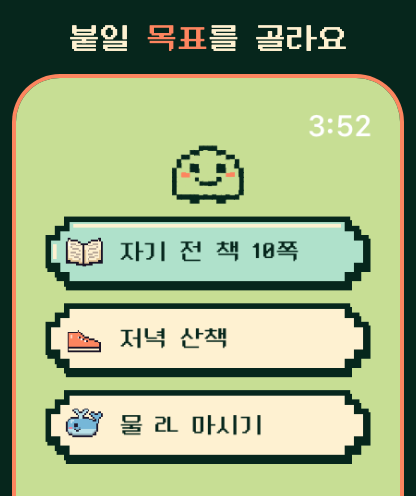
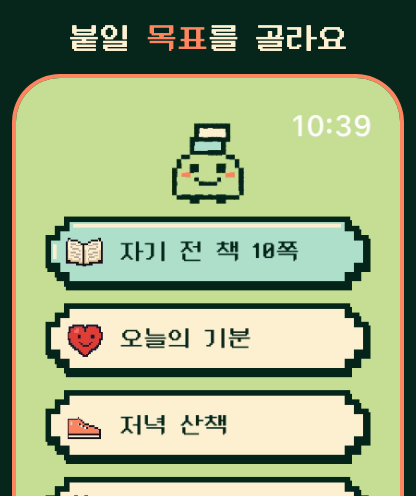
docs(store): reshoot the Korean 1.1.0 watch screenshots
The Korean watch set was still the 1.0.0 capture (three goals, no
"today's mood", old character). Recaptured the same four scenes as the
English set on the 1.1.0 Release build with a fresh iPhone 17 Pro Max
and Apple Watch Series 11 simulator pair set to Korean, with the app
clock moved to Oct 28 and the same seed plus the 11th book sticker.
The watch status bar cannot be overridden on the simulator, so the
clock area is copied from the English raws to read 10:39 (10:34 on 02).

gen8.mjs now renders final-1.1.0/watch and the 07 watch card from
raw8/watch/; 07 is added to changed/.

diff --git a/docs/design/proposals-2026-10/README.md b/docs/design/proposals-2026-10/README.md
@@ -9,7 +9,7 @@
 | --- | --- | --- | --- |
 | 스티커 품질 점검 | https://claude.ai/artifact/NWuVMD9zg1GxyHaLgHjHcq | `sticker-quality.template.html` | 2026-10-07 발행. 「컬러로 모두 바꾸는 대신 품질부터, 처음 기획한 도트 느낌이 사라졌다」(사용자) → 66종을 처음 도트 규칙(PixelLab 하트 기준)에 비춰 판정: 그대로 37 · 손보기 19 · 다시 그리기 10. 잘 된 쪽은 Codex 변환 동물·감정·사물, 약한 쪽은 생성기로 그린 기본·운동·간식·날씨 일부(윤곽만 있는 선 그림, 1칸 선, 떠 있는 점, 흰 몸, 여백 없음). 자동 검사(떠 있는 칸·여백·밝은 면·얇은 선·잉크 윤곽). 다듬는 방법 M1 잘 된 경로로 통일(추천) · M2 제가 전부 · M3 출시분만. db `choice-method`·`note-<묶음|m1~m3>`. **2026-10-07 사용자: 스티커 품질은 결정하지 않은 채 우선순위를 낮추고 화면 설계부터 마무리.** 템플릿 자리 `__FONT__`·`__DATA__`(`{stickers, verdicts, lint}`) |
 | 친구와 함께 쓰기 | https://claude.ai/artifact/QYT5fQYk2xeDnBgV63Yckb | `friends-ideas.template.html` | 2026-10-17 발행. 당시에는 출시 뒤 검토 기능이었고, 뒤에 「함께 목표」(아래 줄, PRD 4.15)로 확정됐다. 「셋로그처럼 친구와 같이 쓰려면」(사용자) → 아이디어 7개(친구 방, 함께 채우는 판, 같이 시작하기, 우리 판 돌아보기, 완성한 판 엽서, 응원 스티커, 위젯에 친구 소식)를 화면 그림으로(실제 컴포넌트 캡처 아님) + 넣지 않을 것 + 방향 A 보내기만(추천), B 작은 친구 방, C 함께 채우는 판. 기획 정리는 [`../../superpowers/specs/2026-10-17-friends-ideas.md`](../../superpowers/specs/2026-10-17-friends-ideas.md). 바로 열어 보기: `friends-ideas.html`(브라우저로 열기, 고른 것은 그 브라우저에만 저장) 또는 캡처 `friends-ideas.png`. 템플릿은 빈 자리(`__FONT__`, `/*__ART__*/`)가 있어 그대로 열면 그림이 안 나온다. 템플릿을 고쳤으면 `node docs/design/proposals-2026-10/friends-ideas.gen.mjs [출력 폴더]`로 미리보기를 다시 만들고, 출력 폴더를 주면 폰트까지 넣은 발행용도 만든다. db `review/choice-fr-<1~7|dir>`(yes, later, no / a, b, c), `review/note-fr-<1~7|dir|all>` |
-| 스토어 스크린샷 | https://claude.ai/artifact/EwfZj1XX7r2fP4ppBPV7ks, 1.1.0: https://claude.ai/artifact/2pC3w4BaFRXU5ogG4Cfapi | `store-shots/` | **1.1.0 세트(2026-11-05 사용자 확정):** `final-1.1.0/6.9`, `6.3`(01~10), `watch`(1.0.0 그대로). 1.1.0 Release 빌드로 같은 예시 데이터와 날짜(10월 28일 9:41)로 다시 찍어 비교했다. 교체 01 붙이기, 05 기분, 06 달력(진행 막대와 차곡이), 08 꾸미기(새 기본 묶음, 「무료」 배지 없음). 그대로 02, 03, 04, 07. 새 장 09 한 판, 10 각자 판(함께 목표, 맨 뒤에 둠 A안, 10은 친구 둘로 다시 찍음 C안). 예비 장(초대) `final-1.1.0/extra`. 바뀐 장과 새 장만 `changed/`. 새 원본 `raw8/`(바뀐 장만, 나머지는 `raw6/`. 02 목표 목록은 2026-11-06에 01 붙이기 뒤 상태(책 73%)로 `raw8/home.png`를 다시 찍어 01, 07과 맞췄다. 07 위젯의 기분 달력은 날마다 목표 기본 스티커(빨간 하트)를 그리는 것이 앱 동작이라 그대로), 예시 데이터 `seed8.mjs`(1.1.0 기기 DB 구조), 다시 만들기 `node gen8.mjs` → `final-1.1.0/`, `changed/`, `out8/sheet8.png`(커밋 안 함). db `review/choice-store-order`(A), `review/choice-store-empty`(C). **1.0.0 제출본: 7판 B안 확정(2026-10-29, 사용자 선택, 메모 없음).** 확정본은 `store-shots/final/`: `6.9/01~08.png`(1320×2868), `6.3/01~08.png`(1206×2622, 꼭 내야 하는 크기), `watch/01~04.png`(416×496). 순서는 붙이기, 여러 목표, 기록, 다시 보기, 기분, 달력, 위젯과 워치, 꾸미기. 08(꾸미기)은 묶음 카드의 「무료」 배지 3곳을 카드 바탕색으로 가렸다(2026-10-29 App Store 점검, 지침 2.3.7, `gen7.mjs`의 `masks`). B 크게 잘라 보기(먹색 바탕, 휴대폰 테두리 없이 화면 일부를 크게, 무료 스티커 장식). 함께 보인 안: A 출시 영상 결(민트, 아이보리, 연두 교차와 단계 배지), C 이어지는 파노라마(살구 바탕). Watch는 6판에서 고른 B안(먹색, 위쪽 문구)의 화면을 키운 4장, 보관함 구경 장은 뺐다. 캡처 원본은 `raw6/`(iPhone), `watch6/`(Watch), 예시 데이터는 `seed.mjs`. 다시 만들려면 `node gen7.mjs [a|b|c]` → `out7/`(커밋 안 함)에 낱장, 시트, 리뷰 HTML. db `review/choice-shots7`(a, b, c), `review/note-shots7-<a|b|c|watch|ads|shop|photo|video|copy|all>`. 이전 판: 2026-10-26 2판(1판 「밋밋하다, 메모와 사진 화면이 없다」 → 스티커가 튀어나오는 구성 `gen2.mjs`, 기록 화면과 사진 모아보기 추가, 사진은 Storybook 도트 예시 사진, A 기울인 한 대 추천, B 두 화면 겹치기, C 크게 흘려 보내기). 1판: Release 빌드를 시뮬레이터(iPhone 17 Pro Max iOS 26.5, Watch Series 11 46mm)에서 찍고 문구를 얹음. 예시 데이터 `seed.mjs`(앱 DB에 넣음, 무료 묶음만, 광고 제거 켬), 구성 `gen.mjs`(`slides.json`, Chrome 헤드리스, 1320×2868과 1206×2622). A 판 그대로(추천), B 휴대폰 모양, C 크게 보기. Watch 3장은 그대로. db `review/choice-shots`(a, b, c), `review/note-shots-<a|b|c|watch|ads|shop|photo|copy|all>` |
+| 스토어 스크린샷 | https://claude.ai/artifact/EwfZj1XX7r2fP4ppBPV7ks, 1.1.0: https://claude.ai/artifact/2pC3w4BaFRXU5ogG4Cfapi | `store-shots/` | **1.1.0 세트(2026-11-05 사용자 확정):** `final-1.1.0/6.9`, `6.3`(01~10), `watch`(2026-11-07 영어판과 같은 장면으로 1.1.0 Release 빌드에서 다시 찍음, 원본 `raw8/watch/`, 07의 워치 화면도 이것. 워치 시각은 시뮬레이터에서 바꿀 수 없어 영어 원본의 시각 부분을 붙여 10:39(02는 10:34)로 맞췄다). 1.1.0 Release 빌드로 같은 예시 데이터와 날짜(10월 28일 9:41)로 다시 찍어 비교했다. 교체 01 붙이기, 05 기분, 06 달력(진행 막대와 차곡이), 08 꾸미기(새 기본 묶음, 「무료」 배지 없음). 그대로 02, 03, 04, 07. 새 장 09 한 판, 10 각자 판(함께 목표, 맨 뒤에 둠 A안, 10은 친구 둘로 다시 찍음 C안). 예비 장(초대) `final-1.1.0/extra`. 바뀐 장과 새 장만 `changed/`. 새 원본 `raw8/`(바뀐 장만, 나머지는 `raw6/`. 02 목표 목록은 2026-11-06에 01 붙이기 뒤 상태(책 73%)로 `raw8/home.png`를 다시 찍어 01, 07과 맞췄다. 07 위젯의 기분 달력은 날마다 목표 기본 스티커(빨간 하트)를 그리는 것이 앱 동작이라 그대로), 예시 데이터 `seed8.mjs`(1.1.0 기기 DB 구조), 다시 만들기 `node gen8.mjs` → `final-1.1.0/`, `changed/`, `out8/sheet8.png`(커밋 안 함). db `review/choice-store-order`(A), `review/choice-store-empty`(C). **1.0.0 제출본: 7판 B안 확정(2026-10-29, 사용자 선택, 메모 없음).** 확정본은 `store-shots/final/`: `6.9/01~08.png`(1320×2868), `6.3/01~08.png`(1206×2622, 꼭 내야 하는 크기), `watch/01~04.png`(416×496). 순서는 붙이기, 여러 목표, 기록, 다시 보기, 기분, 달력, 위젯과 워치, 꾸미기. 08(꾸미기)은 묶음 카드의 「무료」 배지 3곳을 카드 바탕색으로 가렸다(2026-10-29 App Store 점검, 지침 2.3.7, `gen7.mjs`의 `masks`). B 크게 잘라 보기(먹색 바탕, 휴대폰 테두리 없이 화면 일부를 크게, 무료 스티커 장식). 함께 보인 안: A 출시 영상 결(민트, 아이보리, 연두 교차와 단계 배지), C 이어지는 파노라마(살구 바탕). Watch는 6판에서 고른 B안(먹색, 위쪽 문구)의 화면을 키운 4장, 보관함 구경 장은 뺐다. 캡처 원본은 `raw6/`(iPhone), `watch6/`(Watch), 예시 데이터는 `seed.mjs`. 다시 만들려면 `node gen7.mjs [a|b|c]` → `out7/`(커밋 안 함)에 낱장, 시트, 리뷰 HTML. db `review/choice-shots7`(a, b, c), `review/note-shots7-<a|b|c|watch|ads|shop|photo|video|copy|all>`. 이전 판: 2026-10-26 2판(1판 「밋밋하다, 메모와 사진 화면이 없다」 → 스티커가 튀어나오는 구성 `gen2.mjs`, 기록 화면과 사진 모아보기 추가, 사진은 Storybook 도트 예시 사진, A 기울인 한 대 추천, B 두 화면 겹치기, C 크게 흘려 보내기). 1판: Release 빌드를 시뮬레이터(iPhone 17 Pro Max iOS 26.5, Watch Series 11 46mm)에서 찍고 문구를 얹음. 예시 데이터 `seed.mjs`(앱 DB에 넣음, 무료 묶음만, 광고 제거 켬), 구성 `gen.mjs`(`slides.json`, Chrome 헤드리스, 1320×2868과 1206×2622). A 판 그대로(추천), B 휴대폰 모양, C 크게 보기. Watch 3장은 그대로. db `review/choice-shots`(a, b, c), `review/note-shots-<a|b|c|watch|ads|shop|photo|copy|all>` |
 | 함께 목표 | https://claude.ai/artifact/6ar4PMAu3UFt7grFTGGqio | `friends-goal.template.html` | 2026-11-04 1~9판, **확정**(PRD 4.15, [설계](../../superpowers/specs/2026-11-04-friends-goal-design.md)). 같은 날 「함께 채우는 판」 시안(https://claude.ai/artifact/SbqJHAwK7KrPecU59jfqvH, 9판까지, 원본은 버림)이 방, 판 두 종류, 설정 셋으로 쌓여 어지럽다는 말을 듣고 구조를 다시 골랐다: 방 없이 같은 목표를 각자 판, 한 판, 보여주기로. 기준 코드는 release/1.0.1. 고른 것: 처음 낼 방식 A(세 가지 모두), 위젯 A(내 판 그대로 + n명 표시), 초대 링크 A(기간 없음), 판 배치 A. 9판에서 차단(심사 지침 1.2)과 경우별 화면 다시 찍기. 6~8판에서 판 화면을 다듬음: 진행 막대 빼기, 내 판 4칸(큰 폰 5칸) 두 줄, 친구 판은 [이름][얇은 판] 줄 목록 7칸(큰 폰 8칸) 두 줄, 달력판은 두 주. 캡처는 `BoardDetailScreen` 임시 prop(`members`, `readOnly`, `title`, `hideProgress`, 커밋 안 함)과 임시 스토리로 찍음. 다시 만들기 `node docs/design/proposals-2026-10/friends-goal.gen.mjs <캡처 폴더> <출력 html>`. db `review/choice-fg-<scope\|widget\|link\|layout>`, `review/note-fg-*` |
 | 함께 목표 화면 확인 | https://claude.ai/artifact/7aH9Yjs8fHo9bx5kTjD65g | `friends-goal-screens.template.html` | 2026-11-05 1판. 2단계 화면 구현 뒤 시안에 없던 것 확인. 고를 것: 한 판 기다림 안내(A 각자 판 카드 추천, B 한 줄, C 없음), 한 판 달력판 하루 두 장(A 한 장, B 겹치기 추천, C 칸 나누기), 큰 폰 혼자 판 칸(B 5칸 54pt 지금 추천, A 여백 빼기 56pt, C 4칸 71pt. 뒤에 혼자 판은 3칸 그대로 두기로 해 이 고르기는 없어졌다, PRD 12절 11-05). 확인할 묶음 다섯(들어가는 길, 목록과 판, 목표 설정, 확인 창, 신고와 차단)은 iOS 26.5 qa 캡처. 안 캡처는 임시 스토리를 정적 Storybook(file://, 포트 없음)으로 찍음. 다시 만들기 `node docs/design/proposals-2026-10/friends-goal-screens.gen.mjs <캡처 폴더> <글자 JSON> <출력 html>`. db `review/choice-fs-<t1\|t2\|t3\|c-entry\|c-board\|c-settings\|c-dialogs\|c-safety>`, `review/note-fs-*` |
 
